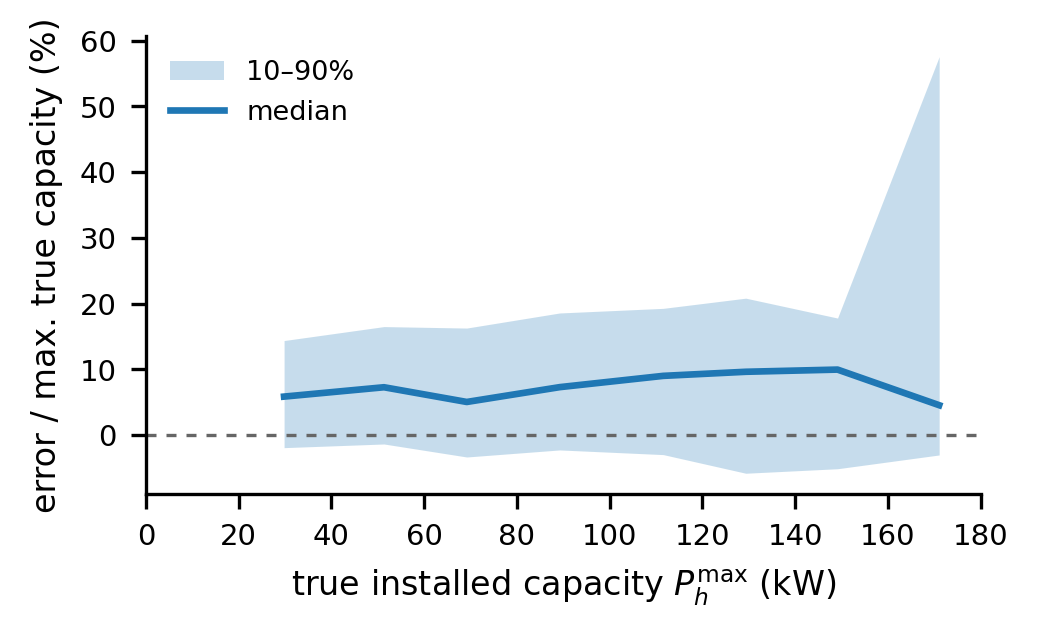
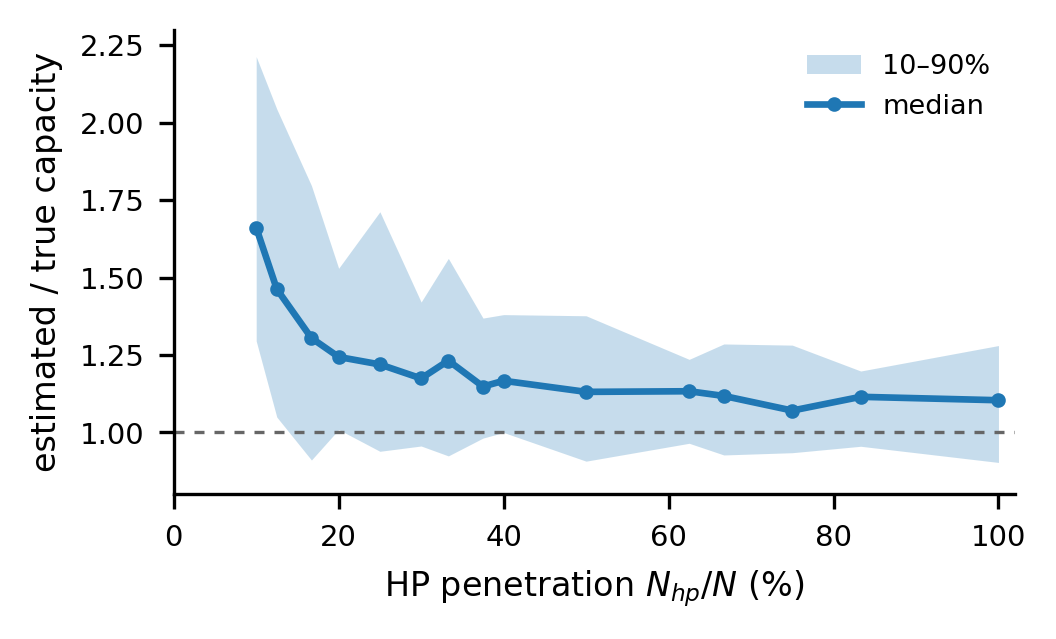
Fig. 5: estimated / true capacity against HP penetration (median and 10-90% range)

Changed region(s): [[0.0308, 0.0298, 0.9865, 0.8636], [0.2775, 0.8934, 0.8015, 0.953]]

diff --git a/scripts/outputs.py b/scripts/outputs.py
@@ -1209,16 +1209,34 @@ def fig_aggregation_heatmap():
     print('saved -> fig_aggregation_heatmap')
 
 
-def fig_capacity_error(width=20):
-    """fig_capacity_error: signed capacity error of s_h / m_h against true installed capacity (Kloten).
+def fig_capacity_error(width=20, kind='pen'):
+    """fig_capacity_error: capacity estimate of s_h / m_h for the 1260 Kloten aggregates.
 
-    Each aggregate's error (estimate - true) is divided by the largest true capacity of all 1260
-    aggregates, as in the nMAE over that set. Median and 10-90% range in bins of ``width`` kW
-    with at least 20 aggregates.
+    kind='pen' (paper): estimate / true capacity against HP penetration N_hp / N, median and
+    10-90% range at each penetration the design produces.
+    kind='ratio': estimate / true capacity against true capacity. kind='norm': error (estimate - true)
+    divided by the largest true capacity of all 1260 aggregates, as in the nMAE over that set.
+    Both in bins of ``width`` kW with at least 20 aggregates.
     """
     G = _kloten_design()['rows']
+    if kind == 'pen':
+        G = G.assign(r=G.cap_est / G.cap, pen=(G.N_hp / G.N * 100).round(1))
+        S = G.groupby('pen').r.agg(n='size', p10=lambda x: x.quantile(.1), med='median', p90=lambda x: x.quantile(.9))
+        print(S.round(2).to_string())
+        hf.use_style()
+        fig, ax = plt.subplots(figsize=(hf.COL1, 2.2))
+        ax.fill_between(S.index, S.p10, S.p90, color=hf.C_CH, alpha=.25, lw=0, label='10–90%')
+        ax.plot(S.index, S.med, color=hf.C_CH, lw=1.6, marker='o', ms=2.5, label='median')
+        ax.axhline(1, color='0.4', lw=0.8, ls=(0, (3, 3)))
+        ax.set(xlabel='HP penetration $N_{hp}/N$ (%)', ylabel='estimated / true capacity', xlim=(0, 102), ylim=(0.8, 2.3))
+        ax.legend(fontsize=6.5, loc='upper right')
+        ax.grid(False)
+        fig.tight_layout()
+        hf.save(fig, 'fig_capacity_error')
+        print('saved -> fig_capacity_error')
+        return
     y, yh = G.cap.to_numpy(), G.cap_est.to_numpy()
-    e = (yh - y) / y.max() * 100
+    e = yh / y if kind == 'ratio' else (yh - y) / y.max() * 100
     edges = np.arange(0, y.max() + width, width)
     idx = np.digitize(y, edges) - 1
     xs, lo, med, hi = [], [], [], []
@@ -1227,15 +1245,15 @@ def fig_capacity_error(width=20):
         if m.sum() < 20:
             continue
         xs.append(y[m].mean()); lo.append(np.percentile(e[m], 10)); med.append(np.median(e[m])); hi.append(np.percentile(e[m], 90))
-        print(f'  {edges[b]:3.0f}-{edges[b + 1]:3.0f} kW  n={m.sum():3d}  P10 {lo[-1]:+5.1f}  median {med[-1]:+5.1f}  P90 {hi[-1]:+5.1f}')
+        print(f'  {edges[b]:3.0f}-{edges[b + 1]:3.0f} kW  n={m.sum():3d}  P10 {lo[-1]:6.2f}  median {med[-1]:6.2f}  P90 {hi[-1]:6.2f}')
     print(f'max true capacity {y.max():.1f} kW; nMAE {_nmae(yh, y):.1f}%')
     hf.use_style()
     fig, ax = plt.subplots(figsize=(hf.COL1, 2.2))
     ax.fill_between(xs, lo, hi, color=hf.C_CH, alpha=.25, lw=0, label='10–90%')
     ax.plot(xs, med, color=hf.C_CH, lw=1.6, label='median')
-    ax.axhline(0, color='0.4', lw=0.8, ls=(0, (3, 3)))
+    ax.axhline(1 if kind == 'ratio' else 0, color='0.4', lw=0.8, ls=(0, (3, 3)))
     ax.set_xlabel('true installed capacity $P_h^{\\max}$ (kW)')
-    ax.set_ylabel('error / max. true capacity (%)')
+    ax.set_ylabel('estimated / true capacity' if kind == 'ratio' else 'error / max. true capacity (%)')
     ax.set_xlim(0, edges[-1])
     ax.legend(fontsize=6.5, loc='upper left')
     ax.grid(False)

diff --git a/paper/content/body.tex b/paper/content/body.tex
@@ -399,11 +399,11 @@ With the pilot's SF sensitivity, \eqref{eq:capacity} recovers the installed capa
 \begin{figure}[t]
 \centering
 \includegraphics[width=\figw]{figures/fig_capacity_error.pdf}
-\caption{Signed capacity error of \eqref{eq:capacity} against true installed capacity for the 1260 Kloten aggregates, divided by the largest true capacity (177~kW). Median and 10--90\% range in 20~kW bins.}
+\caption{Ratio of estimated \eqref{eq:capacity} to true installed capacity for the 1260 Kloten aggregates, against HP penetration $N_{hp}/N$: median and 10--90\% range at each penetration.}
 \label{fig:capacity-error}
 \end{figure}
 
-Fig.~\ref{fig:capacity-error} shows the signed error of every aggregate, divided by the largest true capacity of the 1260 aggregates. Its median stays between $+5\%$ and $+10\%$ at every size, with a 10--90\% range of about $-6\%$ to $+21\%$ up to 160~kW. Above 160~kW, the range widens because the pilot of one split has an SF sensitivity of $0.014\,^\circ$C$^{-1}$, the lowest of the twenty, which overestimates its target half by up to 65\% of the largest true capacity.
+Fig.~\ref{fig:capacity-error} shows the ratio of estimated to true capacity against the HP penetration. Its median falls from 1.66 at 10\% penetration to between 1.07 and 1.13 from 50\% on, and its 10--90\% range narrows from 1.30--2.21 to about 0.9--1.3 above 50\%. Below 15\% penetration, even the 10th percentile overestimates the capacity, by 5--30\%.
 
 \begin{figure*}[t]
 \centering

diff --git a/REVISION_LOG.md b/REVISION_LOG.md
@@ -486,3 +486,7 @@ Raised on 9 Nov and parked while the error metric and ranges change. Not done ye
 - **10–90% ranges replace IQRs everywhere:** Table V spreads (m_h 0.0084 → 0.0023), pilot m_h 0.017–0.019, direct test R² 0.77–0.95 and capacity −8% to +27%, annual flexibility ratio [0.92, 1.35], VI-A ratio 0.84–1.22, Table VII (all ranges wider, ratios unchanged), V-B RHPP −28/+39% at 10 to −11/+13% at 91, Fig. 8 bands and day-to-day spread. "Ranges are 10–90% ranges" is stated once in IV-A; the IQR nomenclature entry is removed.
 - **New Fig. 5 (IV-B):** signed capacity error / max true capacity of all 1260 Kloten aggregates (177 kW), median and 10–90% in 20 kW bins. Median +5% to +10% at every size; range about −6% to +21% up to 160 kW; above 160 kW one split's pilot (m_h 0.014 °C⁻¹, lowest of 20) overestimates its target half by up to 65%. The lead-in sentence and caption are new wording, written after the plot changed to the overall maximum.
 - Abstract (250 words), highlights, Conclusion, Fig. 4 box, Table IV/V/VII captions updated. IEEE 13 pages, Elsevier 5p 16.
+
+## Fig. 5 by HP penetration (Alex, 9 Nov)
+- **Fig. 5 redrawn:** ratio of estimated to true capacity (ŷ/y, each aggregate against its own true value) against HP penetration N_hp/N, median line and 10–90% shade, no binning and no points. Replaces the error / overall-max version in 20 kW bins. `outputs.fig_capacity_error(kind='pen')` is now the default; 'ratio' and 'norm' are kept.
+- **IV-B lead-in and caption rewritten:** median 1.66 at 10% penetration, 1.07–1.13 from 50% on; range 1.30–2.21 at 10%, about 0.9–1.3 above 50%; below 15% even P10 overestimates, by 5–30%. The outlier-pilot sentence (split with m_h 0.014) is gone with the old plot.
